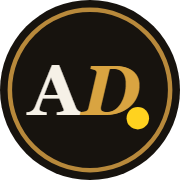
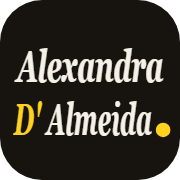
feat: ícone do separador com a assinatura; título volta ao normal

diff --git a/index.html b/index.html
@@ -3,7 +3,7 @@
 <head>
 <meta charset="utf-8">
 <meta name="viewport" content="width=device-width, initial-scale=1">
-<title>𝐴𝑙𝑒𝑥𝑎𝑛𝑑𝑟𝑎 𝐷' 𝐴𝑙𝑚𝑒𝑖𝑑𝑎 | Desenvolvedora</title>
+<title>Alexandra D' Almeida | Desenvolvedora</title>
 <meta name="description" content="Portfólio de Alexandra D' Almeida, desenvolvedora de software em Luanda, Angola.">
 <link rel="icon" href="favicon.svg" type="image/svg+xml">
 <link rel="icon" href="favicon-32.png" type="image/png" sizes="32x32">
